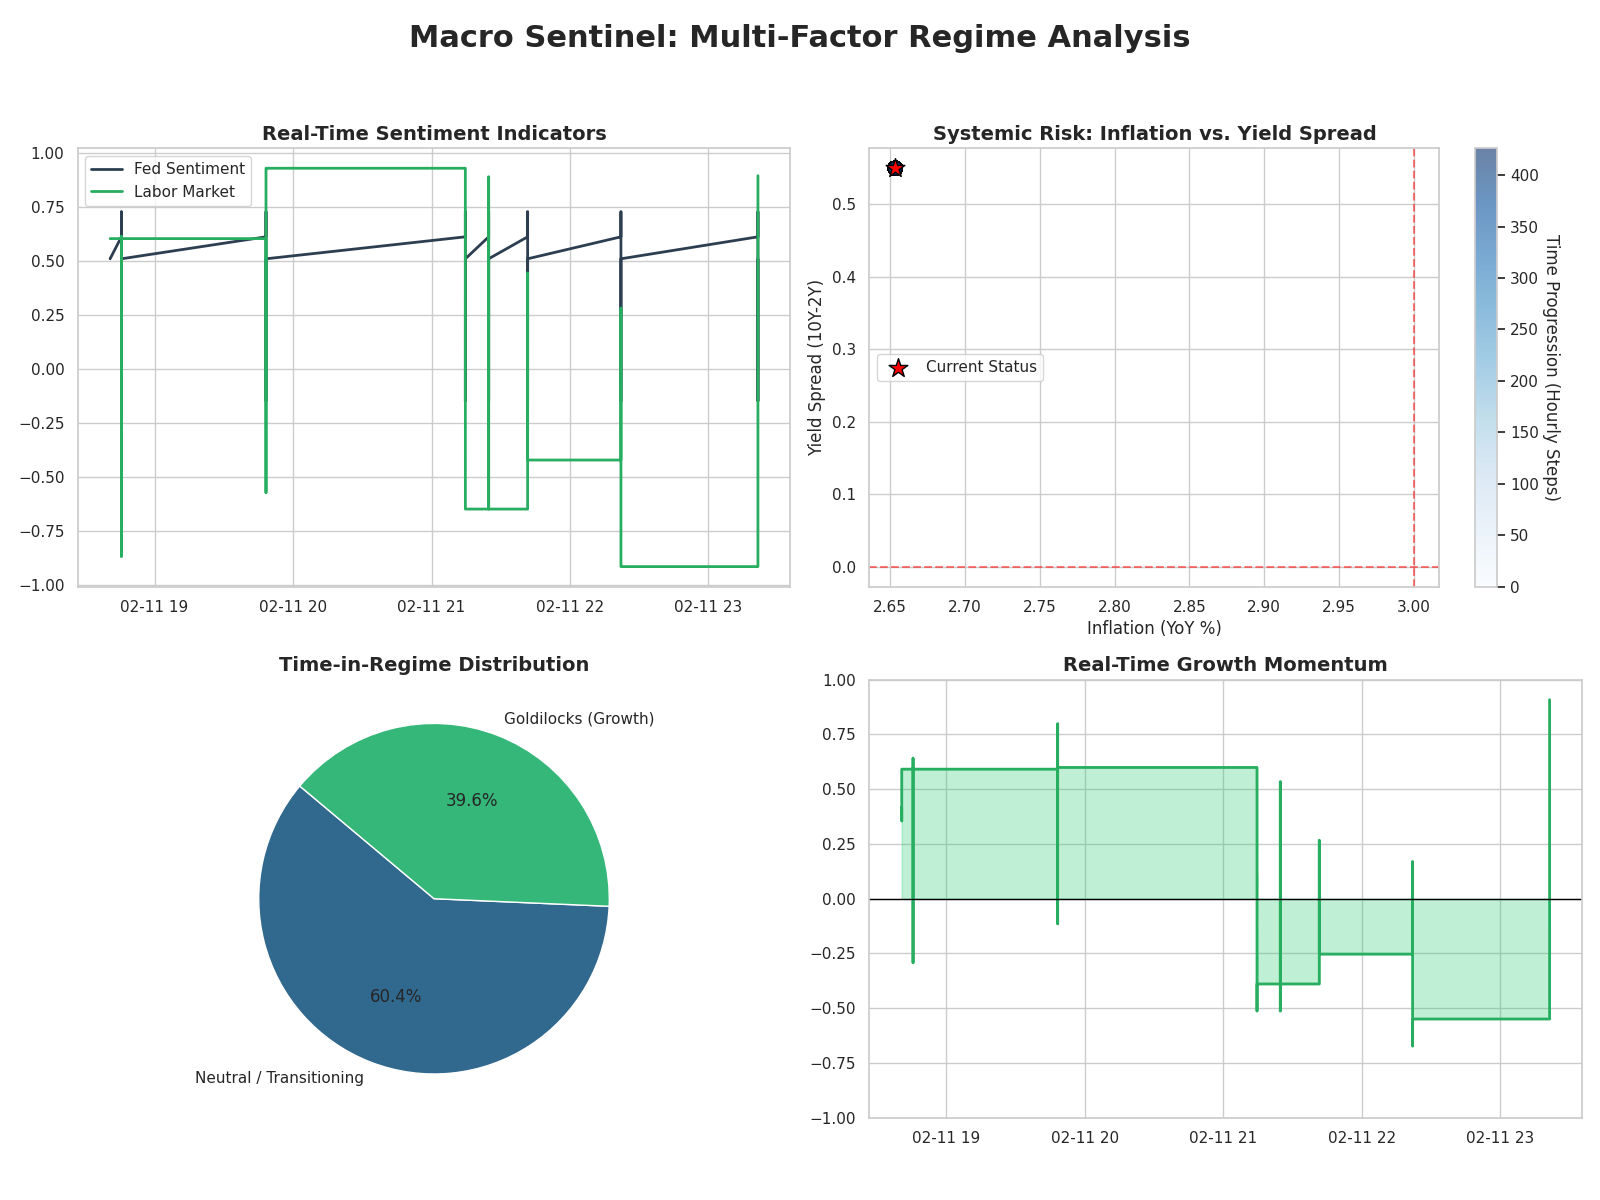
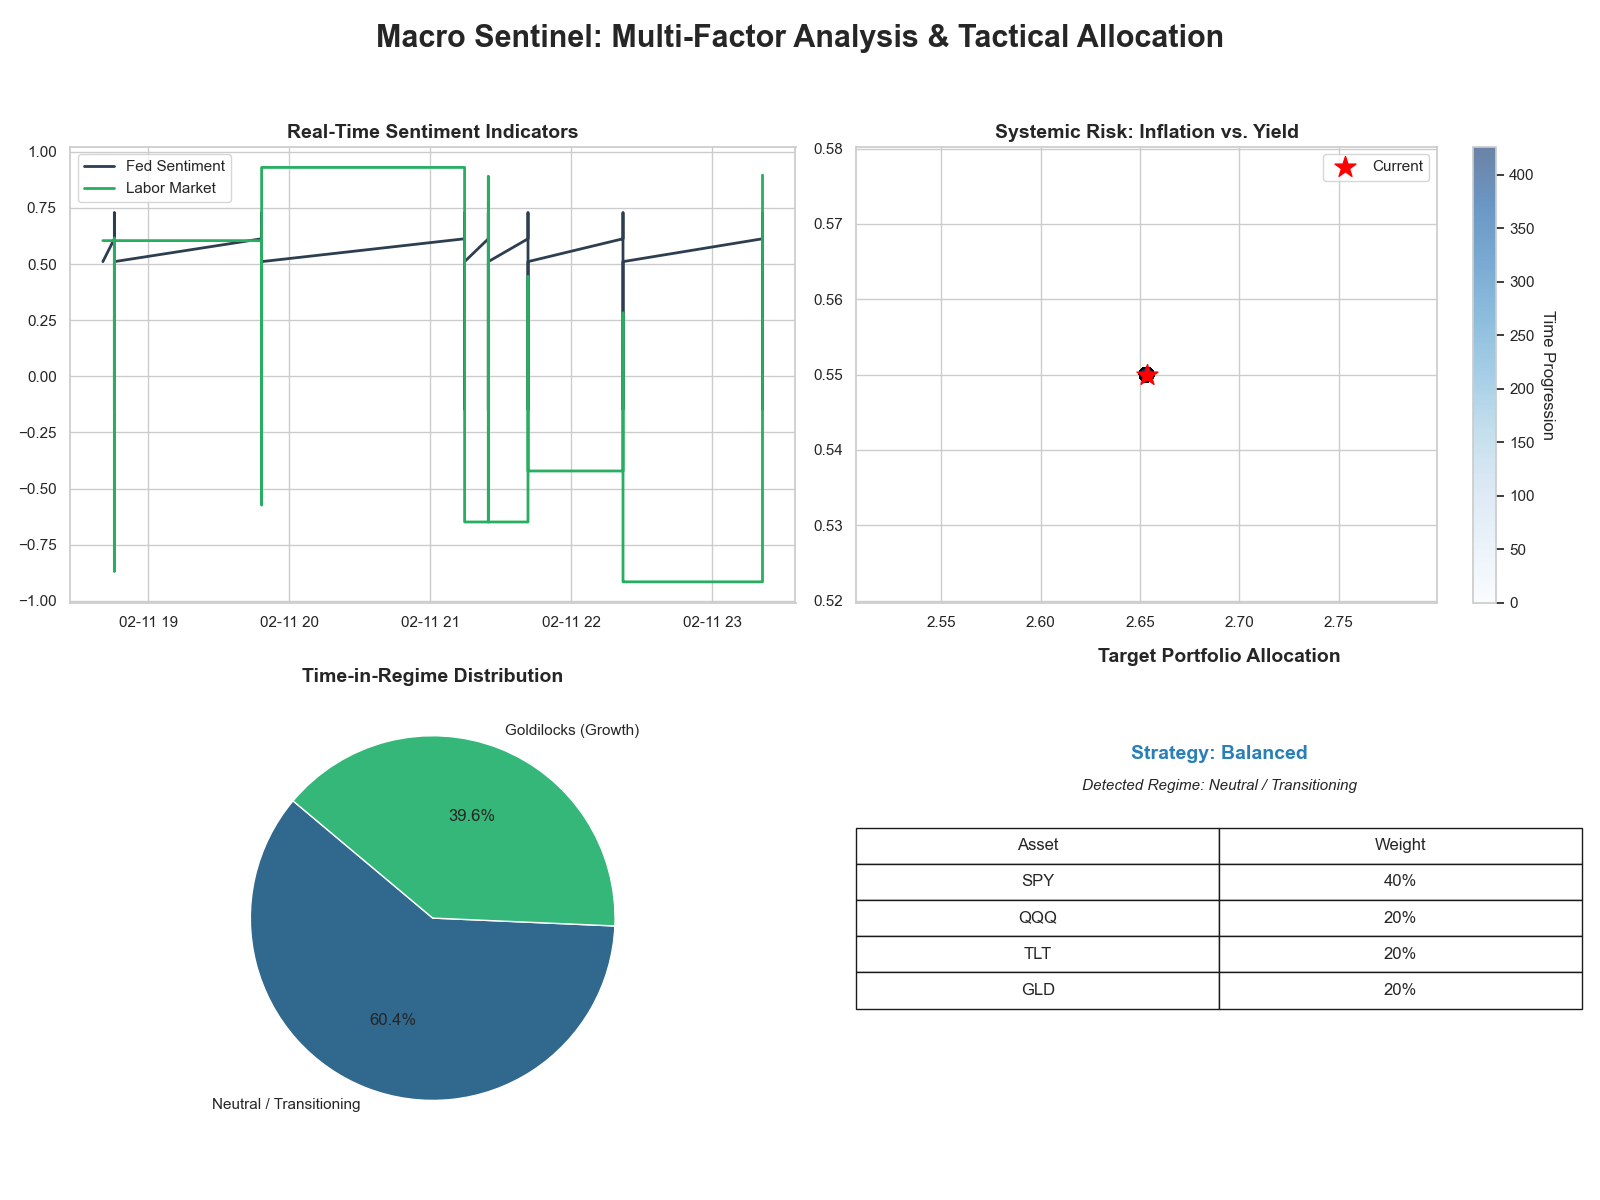
feat: enhance dashboard with tactical allocation table
Upgraded visualization engine to include portfolio-level insights.
- Added 4th quadrant: Dynamic Allocation Table mapped to latest regime.
- Implemented time-progression color mapping for Risk Matrix.
- Added 'Current Status' marker for real-time risk positioning.
- Integrated matplotlib table rendering for clean strategy reporting.

diff --git a/src/visualization/dashboard.py b/src/visualization/dashboard.py
@@ -7,18 +7,21 @@ import os
 SCRIPT_DIR = os.path.dirname(os.path.abspath(__file__))
 BASE_DIR = os.path.dirname(os.path.dirname(SCRIPT_DIR))
 REGIME_DATA = os.path.join(BASE_DIR, "data", "processed", "regime_v2_status.csv")
+ALLOCATION_DATA = os.path.join(BASE_DIR, "data", "processed", "target_allocation.csv")
 OUTPUT_CHART = os.path.join(BASE_DIR, "output", "macro_sentinel_dashboard.png")
 
 def create_dashboard():
-    if not os.path.exists(REGIME_DATA):
-        print(f"[ERROR] No regime data found. Run regime_engine_v2.py first.")
+    if not os.path.exists(REGIME_DATA) or not os.path.exists(ALLOCATION_DATA):
+        print("[ERROR] Data missing. Run engine and allocator first.")
         return
 
+    # Load Data
     df = pd.read_csv(REGIME_DATA, parse_dates=['Timestamp'])
+    alloc_df = pd.read_csv(ALLOCATION_DATA)
     sns.set_theme(style="whitegrid")
 
     fig, axes = plt.subplots(2, 2, figsize=(16, 12))
-    fig.suptitle('Macro Sentinel: Multi-Factor Regime Analysis', fontsize=22, fontweight='bold', y=0.98)
+    fig.suptitle('Macro Sentinel: Multi-Factor Analysis & Tactical Allocation', fontsize=22, fontweight='bold', y=0.98)
 
     # 1. Sentiment Streams (Top Left)
     axes[0, 0].plot(df['Timestamp'], df['Monetary_Policy'], label='Fed Sentiment', color='#2c3e50', lw=2)
@@ -26,23 +29,14 @@ def create_dashboard():
     axes[0, 0].set_title('Real-Time Sentiment Indicators', fontsize=14, fontweight='semibold')
     axes[0, 0].legend(loc='upper left')
 
-    # 2. Risk Matrix (Top Right) - FIXED with Colorbar & Current Marker
+    # 2. Risk Matrix (Top Right)
     scatter = axes[0, 1].scatter(df['Inflation_YoY'], df['Yield_Curve_10Y2Y'], 
                                  c=range(len(df)), cmap='Blues', s=100, edgecolors='black', alpha=0.6)
-    
-    # Adding the colorbar to show time progression
     cbar = fig.colorbar(scatter, ax=axes[0, 1])
-    cbar.set_label('Time Progression (Hourly Steps)', rotation=270, labelpad=15)
-    
-    # Highlight the LATEST point in Red to show where we are NOW
+    cbar.set_label('Time Progression', rotation=270, labelpad=15)
     axes[0, 1].scatter(df['Inflation_YoY'].iloc[-1], df['Yield_Curve_10Y2Y'].iloc[-1], 
-                       color='red', marker='*', s=200, edgecolors='black', label='Current Status', zorder=5)
-
-    axes[0, 1].axhline(0, color='red', linestyle='--', alpha=0.5)
-    axes[0, 1].axvline(3.0, color='red', linestyle='--', alpha=0.5)
-    axes[0, 1].set_title('Systemic Risk: Inflation vs. Yield Spread', fontsize=14, fontweight='semibold')
-    axes[0, 1].set_xlabel('Inflation (YoY %)')
-    axes[0, 1].set_ylabel('Yield Spread (10Y-2Y)')
+                       color='red', marker='*', s=250, label='Current')
+    axes[0, 1].set_title('Systemic Risk: Inflation vs. Yield', fontsize=14, fontweight='semibold')
     axes[0, 1].legend()
 
     # 3. Regime Distribution (Bottom Left)
@@ -51,18 +45,31 @@ def create_dashboard():
                    colors=sns.color_palette('viridis', n_colors=len(regime_counts)), startangle=140)
     axes[1, 0].set_title('Time-in-Regime Distribution', fontsize=14, fontweight='semibold')
 
-    # 4. Growth Momentum Pulse (Bottom Right)
-    growth_pulse = (df['Labor_Market'] * 0.6) + (df['Manufacturing'] * 0.4)
-    axes[1, 1].fill_between(df['Timestamp'], growth_pulse, color="#2ecc71", alpha=0.3, label='Growth Pulse')
-    axes[1, 1].plot(df['Timestamp'], growth_pulse, color="#27ae60", lw=2)
-    axes[1, 1].set_title('Real-Time Growth Momentum', fontsize=14, fontweight='semibold')
-    axes[1, 1].set_ylim(-1, 1)
-    axes[1, 1].axhline(0, color='black', lw=1)
+    # 4. TACTICAL ALLOCATION TABLE (Bottom Right)
+    axes[1, 1].axis('off')
+    strategy_name = alloc_df['Strategy'].iloc[0]
+    regime_name = alloc_df['Regime'].iloc[0]
+    
+    # Table Styling
+    table_data = alloc_df[['Ticker', 'Weight']].copy()
+    table_data['Weight'] = (table_data['Weight'] * 100).astype(int).astype(str) + '%'
+    
+    the_table = axes[1, 1].table(cellText=table_data.values, colLabels=['Asset', 'Weight'], 
+                                  loc='center', cellLoc='center')
+    the_table.auto_set_font_size(False)
+    the_table.set_fontsize(12)
+    the_table.scale(1, 2)
+    
+    axes[1, 1].text(0.5, 0.85, f"Strategy: {strategy_name}", fontsize=14, 
+                    fontweight='bold', ha='center', color='#2980b9')
+    axes[1, 1].text(0.5, 0.78, f"Detected Regime: {regime_name}", fontsize=11, 
+                    ha='center', style='italic')
+    axes[1, 1].set_title('Target Portfolio Allocation', fontsize=14, fontweight='semibold', pad=20)
 
     plt.tight_layout(rect=[0, 0.03, 1, 0.95])
     os.makedirs(os.path.dirname(OUTPUT_CHART), exist_ok=True)
     plt.savefig(OUTPUT_CHART)
-    print(f"[SUCCESS] Dashboard generated with time-tracking: {OUTPUT_CHART}")
+    print(f"[SUCCESS] Dashboard refreshed at {OUTPUT_CHART}")
 
 if __name__ == "__main__":
     create_dashboard()
